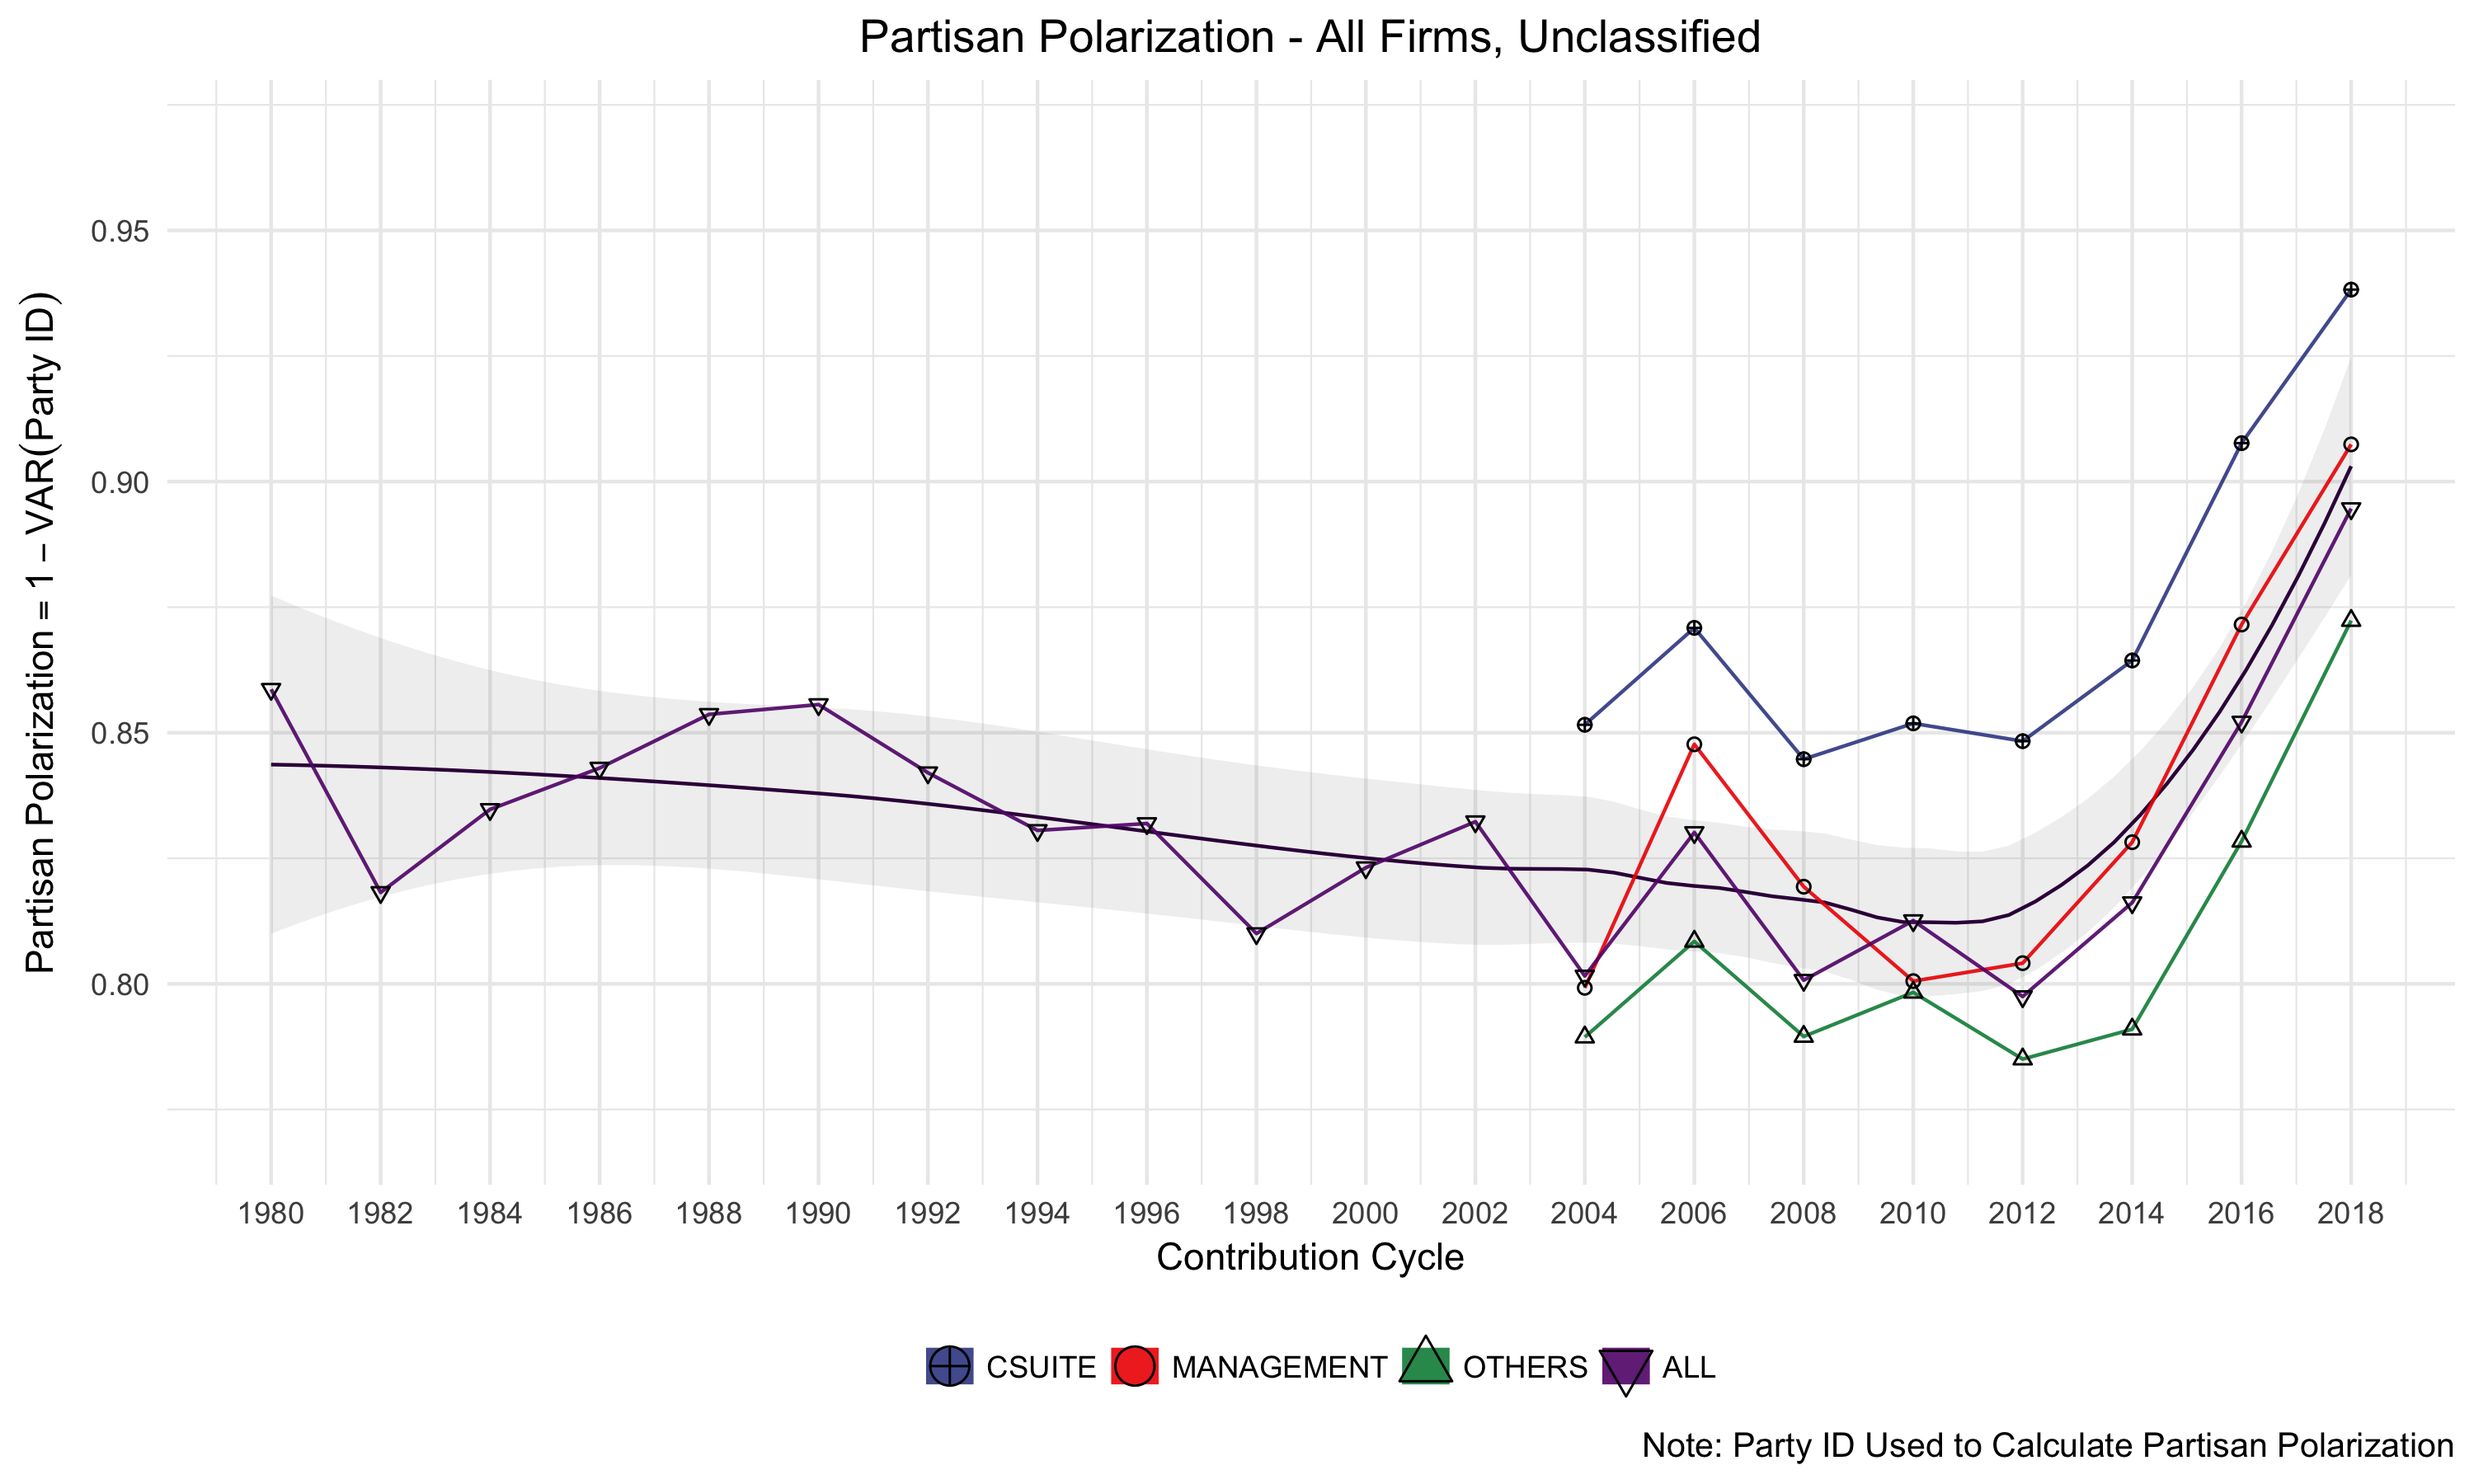
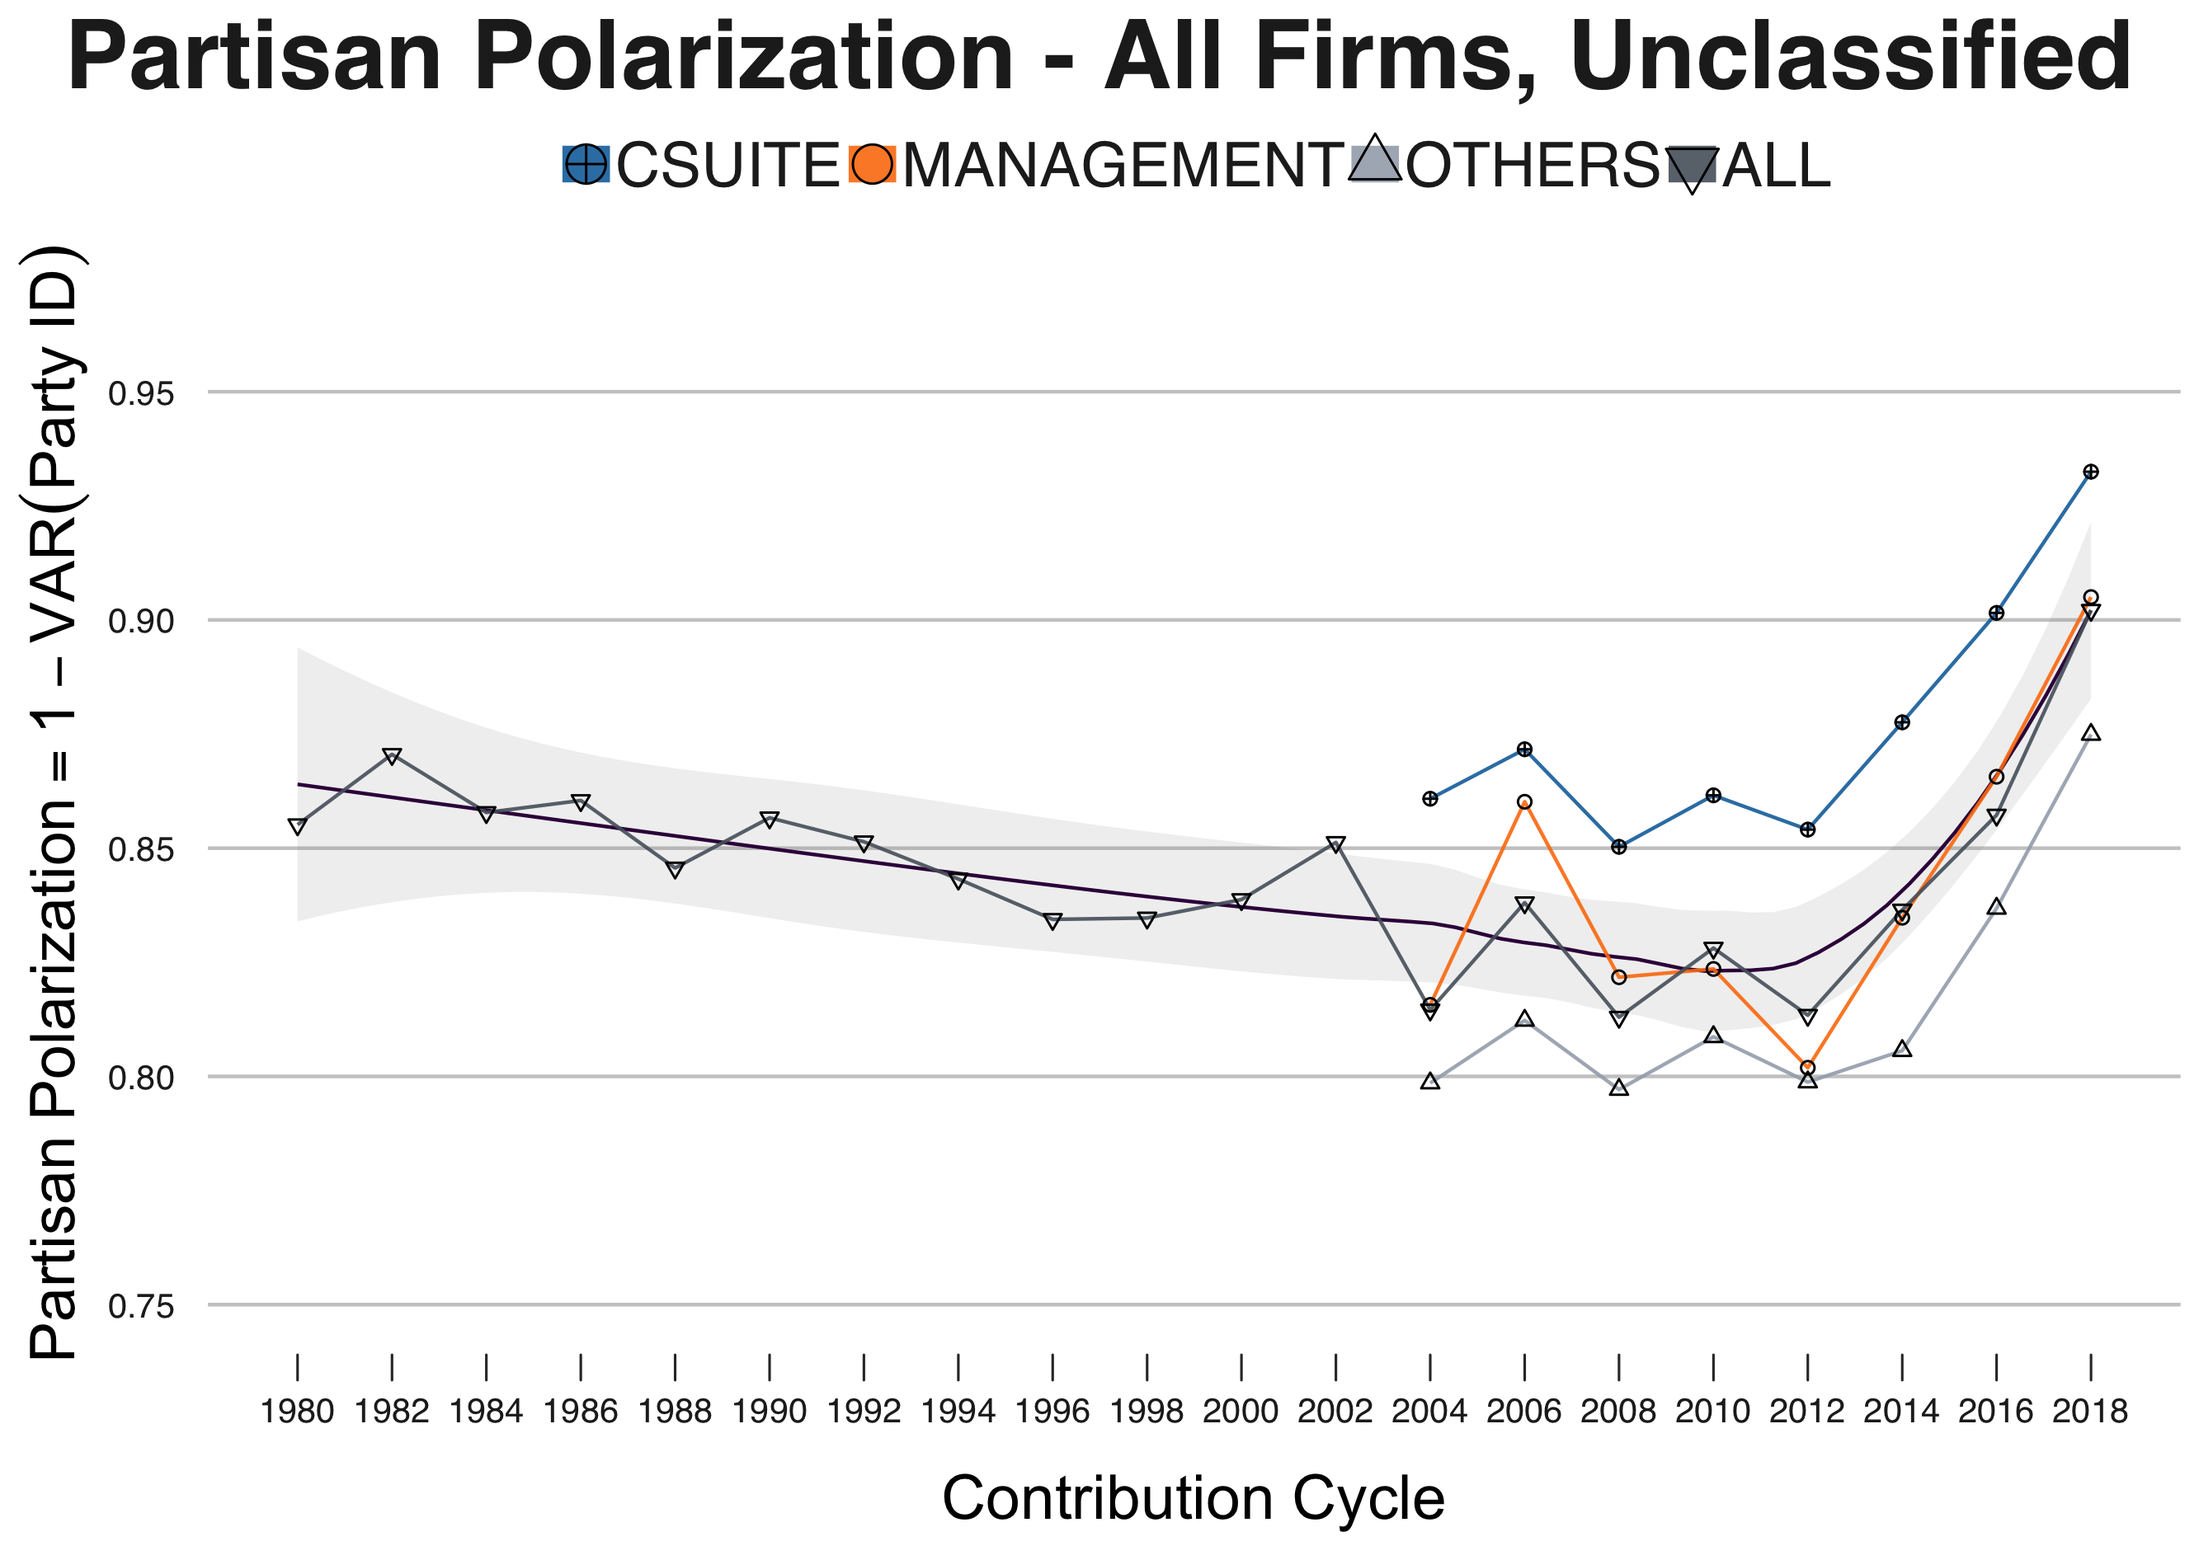
updates to analysis and firm cleaning for f400

diff --git a/analysis/output/tables/indiv_var_cycle_cidmaster_ps_hca_dem.tex b/analysis/output/tables/indiv_var_cycle_cidmaster_ps_hca_dem.tex
@@ -1,6 +1,6 @@
 
 \begin{table}[!htbp] \centering 
-  \caption{Partisan Polarization - AGNES Polarized Democratic Firms - Partisan Score} 
+  \caption{Partisan Polarization - All Firms, Unclassified - Partisan Score} 
   \label{} 
 \scriptsize 
 \begin{tabular}{@{\extracolsep{5pt}} cccccccccccccccccccccc} 
@@ -8,10 +8,10 @@
 \hline \\[-1.8ex] 
  & Organizational Hierarchy & 1980 & 1982 & 1984 & 1986 & 1988 & 1990 & 1992 & 1994 & 1996 & 1998 & 2000 & 2002 & 2004 & 2006 & 2008 & 2010 & 2012 & 2014 & 2016 & 2018 \\ 
 \hline \\[-1.8ex] 
-1 & CSUITE & $$ & $$ & $$ & $$ & $$ & $$ & $$ & $$ & $$ & $$ & $$ & $$ & $0.564$ & $0.478$ & $0.422$ & $0.523$ & $0.541$ & $0.564$ & $0.496$ & $0.316$ \\ 
-2 & MANAGEMENT & $$ & $$ & $$ & $$ & $$ & $$ & $$ & $$ & $$ & $$ & $$ & $$ & $0.542$ & $0.408$ & $0.520$ & $0.753$ & $0.664$ & $0.656$ & $0.451$ & $0.386$ \\ 
-3 & OTHERS & $$ & $$ & $$ & $$ & $$ & $$ & $$ & $$ & $$ & $$ & $$ & $$ & $0.507$ & $0.552$ & $0.533$ & $0.705$ & $0.696$ & $0.650$ & $0.425$ & $0.375$ \\ 
-4 & ALL & $0.276$ & $0.386$ & $0.281$ & $0.414$ & $0.380$ & $0.415$ & $0.658$ & $0.744$ & $0.740$ & $0.719$ & $0.722$ & $0.645$ & $0.504$ & $0.534$ & $0.502$ & $0.619$ & $0.665$ & $0.594$ & $0.434$ & $0.370$ \\ 
+1 & CSUITE & $$ & $$ & $$ & $$ & $$ & $$ & $$ & $$ & $$ & $$ & $$ & $$ & $0.400$ & $0.344$ & $0.426$ & $0.345$ & $0.421$ & $0.321$ & $0.266$ & $0.160$ \\ 
+2 & MANAGEMENT & $$ & $$ & $$ & $$ & $$ & $$ & $$ & $$ & $$ & $$ & $$ & $$ & $0.596$ & $0.406$ & $0.560$ & $0.541$ & $0.676$ & $0.488$ & $0.359$ & $0.245$ \\ 
+3 & OTHERS & $$ & $$ & $$ & $$ & $$ & $$ & $$ & $$ & $$ & $$ & $$ & $$ & $0.651$ & $0.544$ & $0.637$ & $0.613$ & $0.702$ & $0.588$ & $0.451$ & $0.332$ \\ 
+4 & ALL & $0.228$ & $0.308$ & $0.381$ & $0.422$ & $0.447$ & $0.413$ & $0.479$ & $0.497$ & $0.525$ & $0.485$ & $0.514$ & $0.450$ & $0.572$ & $0.457$ & $0.557$ & $0.485$ & $0.603$ & $0.455$ & $0.373$ & $0.242$ \\ 
 \hline \\[-1.8ex] 
 \end{tabular} 
 \end{table}  

diff --git a/analysis/output/tables/indiv_var_all_cidmaster_pid_hca_dem.tex b/analysis/output/tables/indiv_var_all_cidmaster_pid_hca_dem.tex
@@ -1,6 +1,6 @@
 
 \begin{table}[!htbp] \centering 
-  \caption{Partisan Polarization - AGNES Polarized Democratic Firms - Party ID} 
+  \caption{Partisan Polarization - All Firms, Unclassified - Party ID} 
   \label{} 
 \scriptsize 
 \begin{tabular}{@{\extracolsep{5pt}} ccccc} 
@@ -8,10 +8,10 @@
 \hline \\[-1.8ex] 
  & Organizational Hierarchy & Mean Variance & Median Variance & SD \\ 
 \hline \\[-1.8ex] 
-1 & CSUITE & $0.165$ & $0.185$ & $0.089$ \\ 
-2 & MANAGEMENT & $0.165$ & $0.168$ & $0.107$ \\ 
-3 & OTHERS & $0.165$ & $0.169$ & $0.068$ \\ 
-4 & ALL & $0.170$ & $0.184$ & $0.094$ \\ 
+1 & CSUITE & $0.123$ & $0.104$ & $0.107$ \\ 
+2 & MANAGEMENT & $0.158$ & $0.171$ & $0.126$ \\ 
+3 & OTHERS & $0.182$ & $0.208$ & $0.088$ \\ 
+4 & ALL & $0.158$ & $0.175$ & $0.083$ \\ 
 \hline \\[-1.8ex] 
 \end{tabular} 
 \end{table}  
